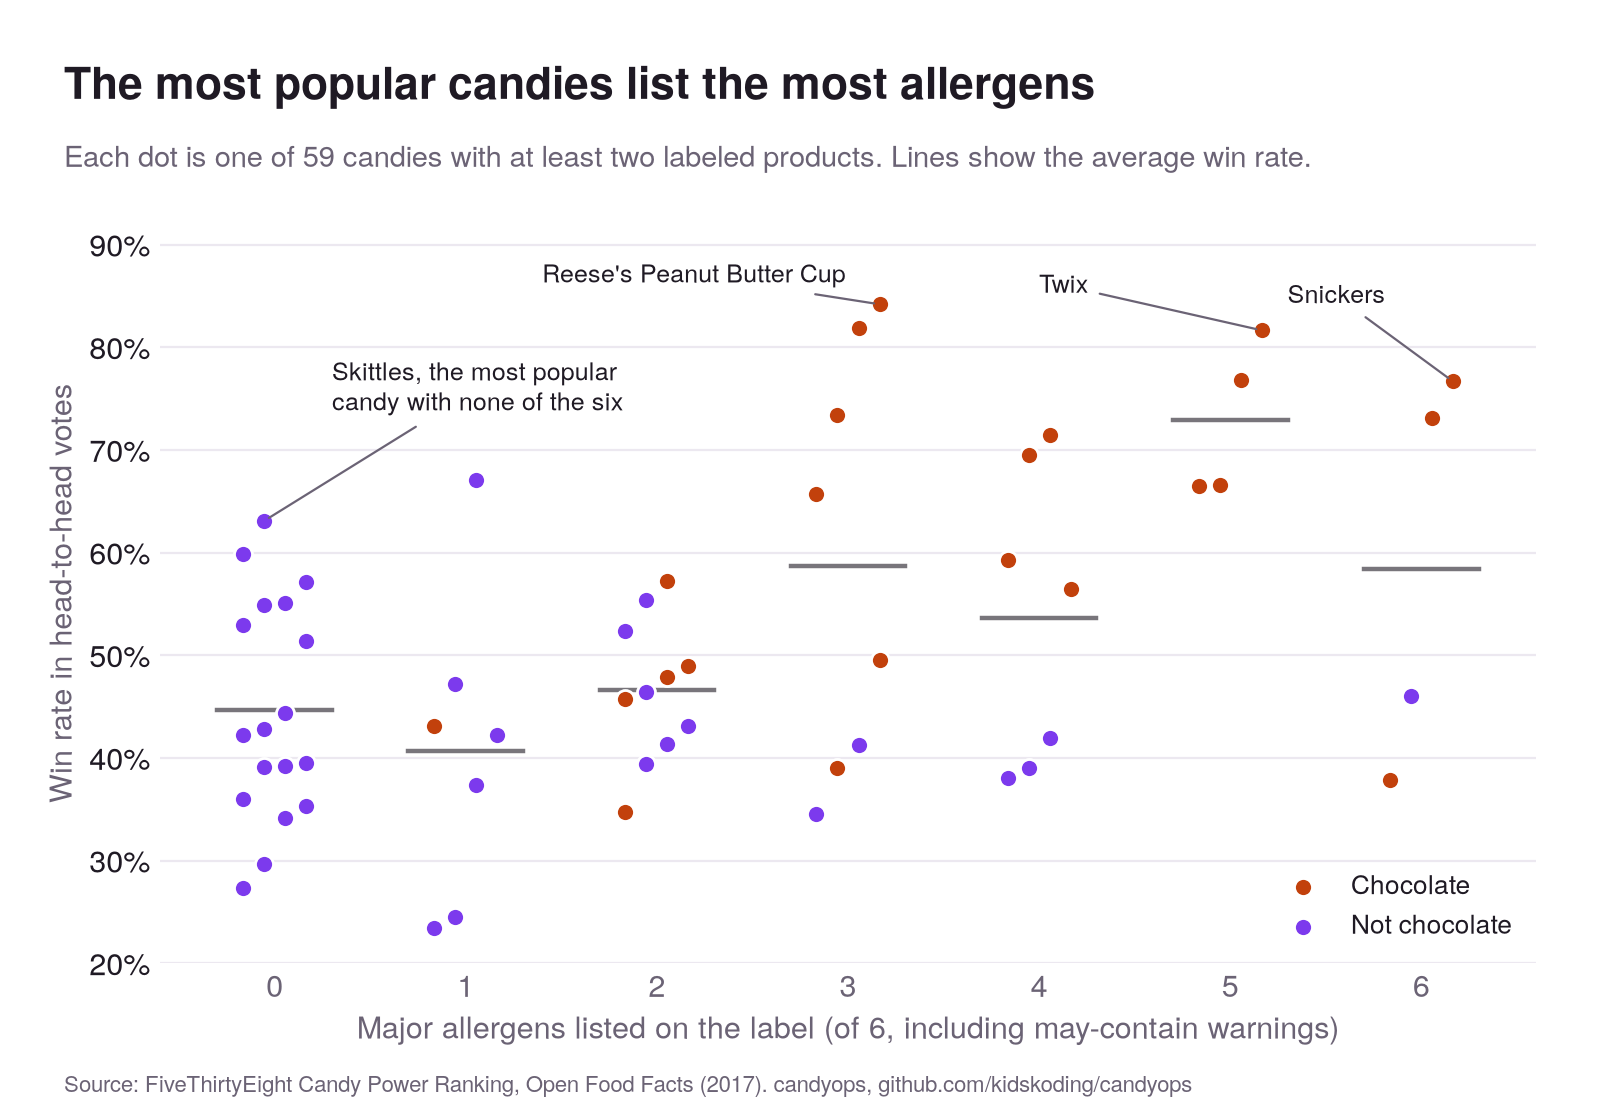
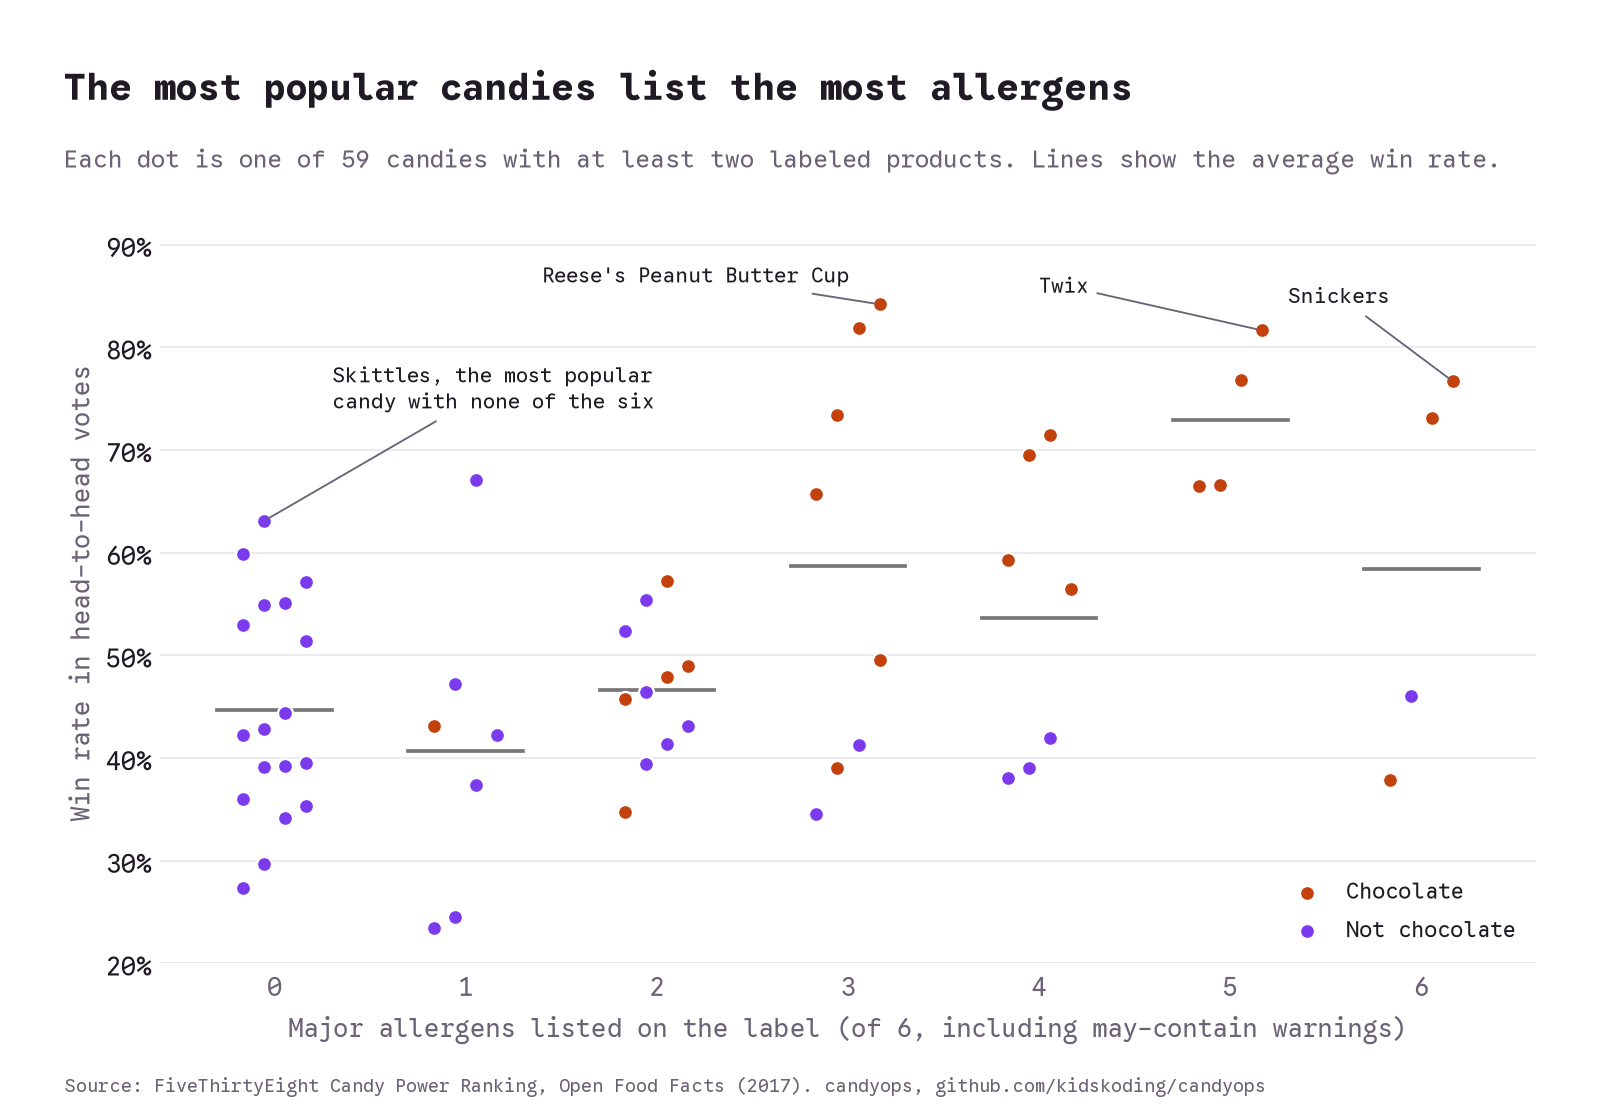
feat: add a dark theme and figures for the new findings
build_figures.py gains --theme dark and --out for the blog, and draws the warning cost, safe swaps and street bowl figures.

diff --git a/scripts/build_figures.py b/scripts/build_figures.py
@@ -1,11 +1,13 @@
 """Draw the blog figures from the Databricks gold tables into docs/figures/ (uses the databricks CLI's auth).
 
     uv run --with matplotlib python scripts/build_figures.py [--profile NAME] [--schema candyops]
+    uv run --with matplotlib python scripts/build_figures.py --theme dark --out DIR   # for the dark blog
 """
 
 from __future__ import annotations
 
 import argparse
+import json
 import sys
 from pathlib import Path
 
@@ -20,24 +22,43 @@ sys.path.insert(0, str(Path(__file__).resolve().parent))
 from write_results import ROOT, WAREHOUSE, cli, query  # noqa: E402
 
 OUT = ROOT / "docs" / "figures"
-INK, MUTED, GRID, BG = "#1F1A24", "#6B6375", "#ECE8F0", "#FFFFFF"
-ORANGE, PURPLE, GREY = "#C2410C", "#7C3AED", "#A8A29E"  # validated for a white surface
-SEVERITY = {"contains": "#9A3412", "varies": "#EA580C", "may_contain": "#FB923C",
-            "not_listed": "#F1EFEC", "unknown": "#FFFFFF"}
+# Each theme's chart colors were checked with the dataviz palette validator against its background.
+THEMES = {
+    "light": {"INK": "#1F1A24", "MUTED": "#6B6375", "GRID": "#ECE8F0", "BG": "#FFFFFF",
+              "ORANGE": "#C2410C", "PURPLE": "#7C3AED", "LAVENDER": "#A78BFA", "GREY": "#A8A29E",
+              "SEVERITY": {"contains": "#9A3412", "varies": "#EA580C", "may_contain": "#FB923C",
+                           "not_listed": "#F1EFEC", "unknown": "#FFFFFF"}},
+    # gruvbox dark, the blog's palette: fg, fg2, bg2, bg; orange, purple, aqua, fg3; orange ramp bright to faded
+    "dark": {"INK": "#EBDBB2", "MUTED": "#A89984", "GRID": "#3C3836", "BG": "#282828",
+             "ORANGE": "#FE8019", "PURPLE": "#D3869B", "LAVENDER": "#8EC07C", "GREY": "#7C6F64",
+             "SEVERITY": {"contains": "#FE8019", "varies": "#D65D0E", "may_contain": "#AF3A03",
+                          "not_listed": "#3C3836", "unknown": "#282828"}},
+}
+INK = MUTED = GRID = BG = ORANGE = PURPLE = LAVENDER = GREY = ""
+SEVERITY: dict[str, str] = {}
+
+
+def apply_theme(name: str) -> None:
+    globals().update(THEMES[name])
+    plt.rcParams.update({"text.color": INK, "axes.labelcolor": MUTED, "xtick.color": MUTED, "ytick.color": INK,
+                         "axes.edgecolor": GRID, "axes.facecolor": BG, "figure.facecolor": BG})
 RESTRICTION_LABELS = {"no_restriction": "No restriction", "gluten_free": "Gluten-free", "peanut_free": "Peanut-free",
                       "nut_free": "Nut-free", "milk_free": "Milk-free", "free_of_all_six": "Free of all six"}
 ALLERGENS = [("peanut", "Peanut"), ("tree_nut", "Tree nut"), ("milk", "Milk"), ("gluten", "Gluten"),
              ("soy", "Soy"), ("egg", "Egg")]
 LISTED = "('contains', 'varies', 'may_contain')"
 
-FONT = next((f for f in ["TeX Gyre Heros", "Liberation Sans", "DejaVu Sans"]
+# Google Sans Code, the blog's font, as static instances of its variable font (OFL, scripts/fonts/OFL.txt)
+for ttf in (Path(__file__).resolve().parent / "fonts").glob("*.ttf"):
+    font_manager.fontManager.addfont(str(ttf))
+FONT = next((f for f in ["Google Sans Code", "TeX Gyre Heros", "Liberation Sans", "DejaVu Sans"]
              if any(f == x.name for x in font_manager.fontManager.ttflist)), "DejaVu Sans")
-plt.rcParams.update({"font.family": FONT, "text.color": INK, "axes.labelcolor": MUTED, "xtick.color": MUTED,
-                     "ytick.color": INK, "axes.edgecolor": GRID, "font.size": 11})
+plt.rcParams.update({"font.family": FONT, "font.size": 11})
 
 
 def figure(title: str, subtitle: str, height: float = 5.0):
-    fig = plt.figure(figsize=(8, height), dpi=200, facecolor=BG)
+    # monospace text runs about 20% wider: a 1.2x larger canvas at 1/1.2 the dpi keeps the pixel size, shrinks the text
+    fig = plt.figure(figsize=(8 * 1.2, height * 1.2), dpi=200 / 1.2, facecolor=BG)
     fig.text(0.04, 1 - 0.32 / height, title, fontsize=16, fontweight="bold", va="top")
     fig.text(0.04, 1 - 0.72 / height, subtitle, fontsize=10.5, color=MUTED, va="top")
     return fig
@@ -212,7 +233,7 @@ def label_changes(outcomes):
     fig = figure(f"{counts.get('Changed', 0)} of {compared} candies with current data changed allergen status",
                  "Each candy's 2017 status compared with products edited since the daily change feed started")
     ax = fig.add_axes([0.27, 0.17, 0.67, 0.61])
-    colors = {"Changed": ORANGE, "Unchanged": PURPLE, "Newly covered": "#A78BFA", "Not enough current data": GREY}
+    colors = {"Changed": ORANGE, "Unchanged": PURPLE, "Newly covered": LAVENDER, "Not enough current data": GREY}
     values = [counts.get(o, 0) for o in order]
     ax.barh(order, values, color=[colors[o] for o in order], height=0.62)
     for i, v in enumerate(values):
@@ -222,12 +243,78 @@ def label_changes(outcomes):
     save(fig, "fig7_label_changes.png", "candyops gold_label_changes")
 
 
+def warning_cost(rows):
+    rows = sorted(rows, key=lambda r: float(r["popularity_kept_strict_pct"]))
+    fig = figure("\"May contain\" warnings cost the peanut-free bowl 7.9 points",
+                 "Popularity kept by each bowl when may-contain warnings exclude a candy, and when they are accepted")
+    ax = fig.add_axes([0.2, 0.17, 0.74, 0.58])
+    for i, r in enumerate(rows):
+        strict, relaxed = float(r["popularity_kept_strict_pct"]), float(r["popularity_kept_with_warnings_pct"])
+        ax.plot([strict, relaxed], [i, i], color=GRID if strict == relaxed else MUTED, linewidth=2, zorder=1)
+        ax.scatter([strict], [i], s=70, color=PURPLE, zorder=3, label="Warnings exclude" if i == 0 else None)
+        ax.scatter([relaxed], [i], s=70, color=ORANGE, zorder=3, label="Warnings accepted" if i == 0 else None)
+        note = f"+{relaxed - strict:.1f}" if relaxed > strict else "no change"
+        ax.text(max(strict, relaxed) + 1, i, note, va="center", fontsize=9.5, color=INK if relaxed > strict else MUTED)
+    ax.set_yticks(range(len(rows)), [RESTRICTION_LABELS[r["restriction"]] for r in rows])
+    ax.set_xlim(60, 100)
+    ax.set_xticks(range(60, 101, 10), [f"{v}%" for v in range(60, 101, 10)])
+    ax.set_xlabel("Popularity kept, compared with the unrestricted bowl")
+    tidy(ax)
+    ax.legend(loc="lower center", bbox_to_anchor=(0.5, 1.0), ncol=2, frameon=False, fontsize=9.5)
+    save(fig, "fig8_warning_cost.png", "candyops gold_warning_cost")
+
+
+def safe_swaps(rows):
+    rows = sorted(rows, key=lambda r: int(r["favorite_rank"]), reverse=True)
+    fig = figure("The closest peanut-free swap for each favorite",
+                 "Most similar peanut-free candy by FiveThirtyEight's traits, sugar and price, with both win rates",
+                 5.8)
+    ax = fig.add_axes([0.33, 0.12, 0.6, 0.68])
+    for i, r in enumerate(rows):
+        fav, swap = float(r["favorite_win_percent"]), float(r["swap_win_percent"])
+        ax.plot([swap, fav], [i, i], color=MUTED, linewidth=1.5, zorder=1)
+        ax.scatter([fav], [i], s=60, color=ORANGE, zorder=3, label="Favorite" if i == 0 else None)
+        ax.scatter([swap], [i], s=60, color=PURPLE, zorder=3, label="Peanut-free swap" if i == 0 else None)
+        ax.text(swap - 1.2, i, r["swap"], ha="right", va="center", fontsize=9)
+    ax.set_yticks(range(len(rows)), [r["favorite"] for r in rows], fontsize=9.5)
+    ax.set_xlim(10, 90)
+    ax.set_xticks(range(20, 91, 10), [f"{v}%" for v in range(20, 91, 10)])
+    ax.set_xlabel("Win rate in head-to-head votes")
+    tidy(ax)
+    ax.legend(loc="lower center", bbox_to_anchor=(0.4, 1.0), ncol=2, frameon=False, fontsize=9.5)
+    save(fig, "fig9_safe_swaps.png", "candyops gold_safe_swaps")
+
+
+def street_bowl(rows):
+    rows = sorted(rows, key=lambda r: float(r["win_percent"]))
+    safe = [len(json.loads(r["safe_for"])) > 0 if isinstance(r["safe_for"], str) else bool(r["safe_for"])
+            for r in rows]
+    fig = figure("One swap gives every allergic kid something to eat",
+                 "The bowl that gives the most kids a favorite, weighting allergies by how common they are", 5.6)
+    ax = fig.add_axes([0.3, 0.13, 0.64, 0.66])
+    values = [float(r["win_percent"]) for r in rows]
+    ax.barh([r["candy"] for r in rows], values, color=[ORANGE if s else GREY for s in safe], height=0.62)
+    for i, (v, s) in enumerate(zip(values, safe, strict=True)):
+        label = f"{v:.1f}%" + ("  allergy-safe, replaces Butterfinger" if s else "")
+        ax.text(v + 1, i, label, va="center", fontsize=9, color=INK if s else MUTED)
+    ax.set_xlim(0, 150)
+    ax.set_xticks(range(0, 101, 25), [f"{v}%" for v in range(0, 101, 25)])
+    ax.set_xlabel("Win rate in head-to-head votes")
+    tidy(ax)
+    save(fig, "fig10_street_bowl.png", "candyops gold_street_bowl; allergy rates from Gupta et al., Pediatrics 2018")
+
+
 def main() -> None:
+    global OUT
     ap = argparse.ArgumentParser()
     ap.add_argument("--profile")
     ap.add_argument("--catalog", default="workspace")
     ap.add_argument("--schema", default="candyops")
+    ap.add_argument("--theme", choices=sorted(THEMES), default="light")
+    ap.add_argument("--out", type=Path, default=OUT)
     a = ap.parse_args()
+    OUT = a.out
+    apply_theme(a.theme)
     wh = next(w["id"] for w in cli(["warehouses", "list"], a.profile) if w["name"] == WAREHOUSE)
     s = f"`{a.catalog}`.`{a.schema}`"
 
@@ -253,6 +340,9 @@ def main() -> None:
                     "WHEN MAX(CASE WHEN comparison = 'newly_covered' THEN 1 ELSE 0 END) = 1 THEN 'Newly covered' "
                     "ELSE 'Not enough current data' END AS outcome FROM {s}.gold_label_changes GROUP BY candy) "
                     "GROUP BY outcome"))
+    warning_cost(q("SELECT * FROM {s}.gold_warning_cost"))
+    safe_swaps(q("SELECT * FROM {s}.gold_safe_swaps WHERE restriction = 'peanut_free'"))
+    street_bowl(q("SELECT candy, win_percent, to_json(safe_for) AS safe_for FROM {s}.gold_street_bowl"))
 
 
 if __name__ == "__main__":
